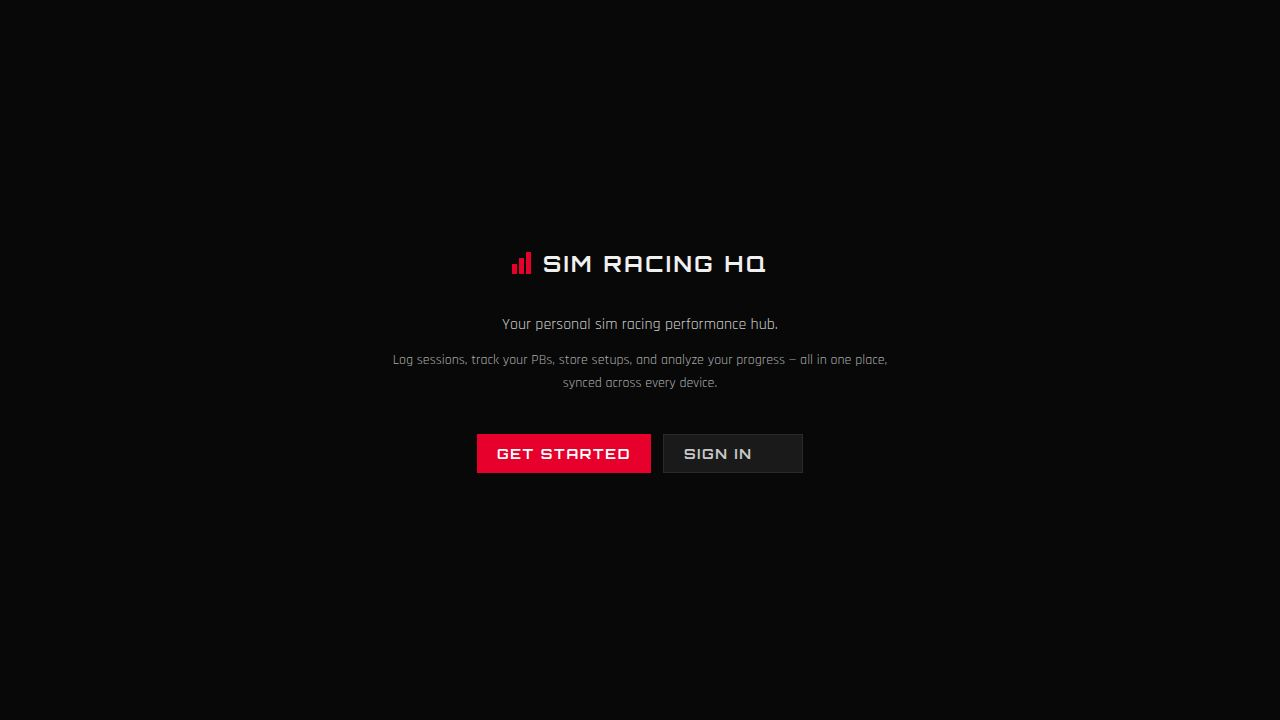
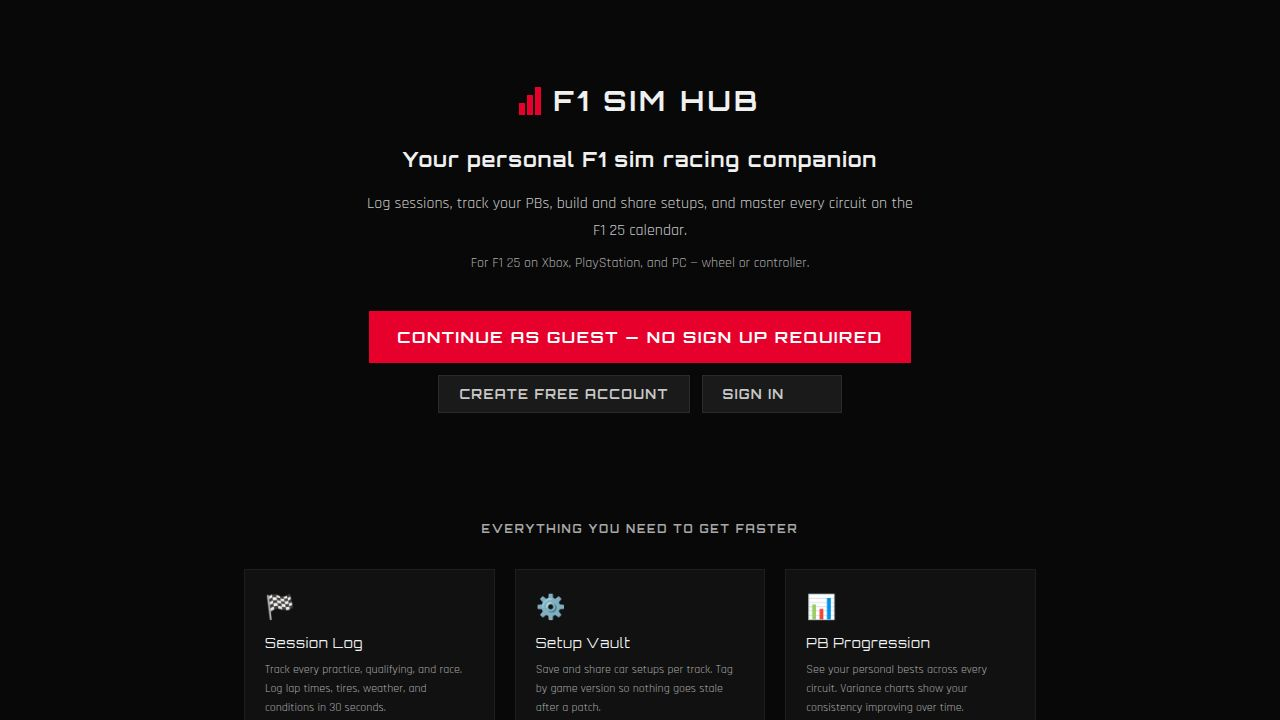
feat: Show save confirmations across Setups, Tracks, and Hardware pages
Task: Extend the existing Toast component to cover every save action in the
app — not just sessions. Setups, track corner notes, and hardware profiles
all saved silently before this change.

Changes:
- Toast.tsx: Added optional `variant` prop ('success' | 'error'). Error
  variant renders red styling with AlertCircle icon instead of teal/CheckCircle.
  Default remains 'success' for full backwards compatibility.

- Setups.tsx: Import Toast, add `toast` state. createSetup onSuccess now
  fires "Setup saved ✓" toast. shareSetup onSuccess fires "Shared to
  Community ✓" or "Removed from Community ✓" depending on prior isPublic
  state. shareSetup onError fires an error toast ("Failed to update sharing
  — please try again."). Existing inline modal error for createSetup
  failures retained.

- Tracks.tsx (TrackDetail): Import Toast, replace `savedFlash` state with
  `notesToast` state. upsertTrackNotes onSuccess fires "Notes saved ✓"
  toast. onError fires an error toast pointing user to the inline Retry
  button. Removed the inline "✓ Saved" span (redundant with Toast); kept
  the inline "Saving…" indicator and "Save failed — Retry" inline error
  for discoverability next to the table.

- HardwareVault.tsx: Import Toast, add `toast` state. createHardware
  onSuccess fires "Hardware saved ✓" toast. Existing inline modal error
  for create failures retained.

No deviations from the task spec. All four done-looks-like criteria met:
[…]

diff --git a/artifacts/sim-racing-hq/src/pages/Tracks.tsx b/artifacts/sim-racing-hq/src/pages/Tracks.tsx
@@ -1,6 +1,7 @@
 import { useState, useEffect, useCallback, useRef, useMemo } from 'react';
 import { ArrowLeft, Plus, X, ChevronDown, ChevronUp, Play, ThumbsUp, BookOpen } from 'lucide-react';
 import { EmptyState } from '../components/EmptyState';
+import { Toast } from '../components/Toast';
 import { F1_TRACKS, F1Track, CORNER_NAMES } from '../data/f1Tracks';
 import {
   useGetSessions,
@@ -369,15 +370,16 @@ function TrackDetail({
   const trackSessions = allSessions.filter(s => s.trackId === track.id);
 
   const { data: trackNotesData } = useGetTrackNotes(track.id);
-  const [savedFlash, setSavedFlash] = useState(false);
+  const [notesToast, setNotesToast] = useState<{ message: string; variant?: 'success' | 'error' } | null>(null);
   const { mutate: upsertTrackNotes, isPending: isSaving, isError: hasSaveError, reset: resetSave } = useUpsertTrackNotes({
     mutation: {
       onSuccess: () => {
         qc.invalidateQueries({ queryKey: getGetTrackNotesQueryKey(track.id) });
-        setSavedFlash(true);
-        setTimeout(() => setSavedFlash(false), 1800);
+        setNotesToast({ message: 'Notes saved ✓' });
       },
-      onError: () => { setSavedFlash(false); },
+      onError: () => {
+        setNotesToast({ message: 'Failed to save notes — tap Retry below.', variant: 'error' });
+      },
     },
   });
 
@@ -460,6 +462,13 @@ function TrackDetail({
 
   return (
     <div className="page">
+      {notesToast && (
+        <Toast
+          message={notesToast.message}
+          variant={notesToast.variant}
+          onDone={() => setNotesToast(null)}
+        />
+      )}
       <button className="back-btn" onClick={onBack}>
         <ArrowLeft size={12} /> Back to Tracks
       </button>
@@ -526,9 +535,6 @@ function TrackDetail({
             <div className="section-title" style={{ marginBottom: 0 }}>Corner Breakdown</div>
             {isSaving && (
               <span style={{ fontFamily: 'var(--font-body)', fontSize: 11, color: 'var(--gray-mid)' }}>Saving…</span>
-            )}
-            {!isSaving && savedFlash && !hasSaveError && (
-              <span style={{ fontFamily: 'var(--font-body)', fontSize: 11, color: 'var(--teal)' }}>✓ Saved</span>
             )}
             {!isSaving && hasSaveError && (
               <span style={{ fontFamily: 'var(--font-body)', fontSize: 11, color: 'var(--red)', display: 'flex', alignItems: 'center', gap: 6 }}>

diff --git a/artifacts/sim-racing-hq/src/pages/Setups.tsx b/artifacts/sim-racing-hq/src/pages/Setups.tsx
@@ -1,6 +1,7 @@
 import { useState, useMemo } from 'react';
 import { Plus, Eye, Trash2, Share2, Lock, Wrench } from 'lucide-react';
 import { EmptyState } from '../components/EmptyState';
+import { Toast } from '../components/Toast';
 import { useGetSetups, useCreateSetup, useDeleteSetup, useShareSetup, getGetSetupsQueryKey } from '@workspace/api-client-react';
 import { useQueryClient } from '@tanstack/react-query';
 import type { SetupRecord } from '@workspace/api-client-react';
@@ -167,6 +168,7 @@ export default function Setups() {
   const [selected, setSelected] = useState<string[]>([]);
   const [viewSetup, setViewSetup] = useState<SetupRecord | null>(null);
   const [comparing, setComparing] = useState(false);
+  const [toast, setToast] = useState<{ message: string; variant?: 'success' | 'error' } | null>(null);
 
   const { mutate: createSetup, isPending: saving } = useCreateSetup({
     mutation: {
@@ -176,6 +178,7 @@ export default function Setups() {
         setForm(defaultForm());
         setFormErrors({});
         setSaveError('');
+        setToast({ message: 'Setup saved ✓' });
       },
       onError: (err: unknown) => {
         const msg = err instanceof Error ? err.message : 'Failed to save setup. Please try again.';
@@ -193,8 +196,14 @@ export default function Setups() {
 
   const { mutate: shareSetup } = useShareSetup({
     mutation: {
-      onSuccess: () => {
+      onSuccess: (_data, variables) => {
         qc.invalidateQueries({ queryKey: getGetSetupsQueryKey() });
+        const setup = setups.find(s => s.id === variables.id);
+        const wasPublic = setup?.isPublic;
+        setToast({ message: wasPublic ? 'Removed from Community ✓' : 'Shared to Community ✓' });
+      },
+      onError: () => {
+        setToast({ message: 'Failed to update sharing — please try again.', variant: 'error' });
       },
     },
   });
@@ -266,6 +275,13 @@ export default function Setups() {
 
   return (
     <div className="page">
+      {toast && (
+        <Toast
+          message={toast.message}
+          variant={toast.variant}
+          onDone={() => setToast(null)}
+        />
+      )}
       <div className="page-header">
         <h1 className="page-title">Setup Vault</h1>
         <button className="btn btn-primary" onClick={() => setShowModal(true)}>

diff --git a/artifacts/sim-racing-hq/src/components/Toast.tsx b/artifacts/sim-racing-hq/src/components/Toast.tsx
@@ -1,14 +1,17 @@
 import { useEffect, useState } from 'react';
-import { CheckCircle } from 'lucide-react';
+import { CheckCircle, AlertCircle } from 'lucide-react';
 
 interface ToastProps {
   message: string;
   onDone: () => void;
   duration?: number;
+  variant?: 'success' | 'error';
 }
 
-export function Toast({ message, onDone, duration = 3000 }: ToastProps) {
+export function Toast({ message, onDone, duration = 3000, variant = 'success' }: ToastProps) {
   const [fading, setFading] = useState(false);
+
+  const isError = variant === 'error';
 
   useEffect(() => {
     const fadeTimer = setTimeout(() => setFading(true), duration);
@@ -23,8 +26,8 @@ export function Toast({ message, onDone, duration = 3000 }: ToastProps) {
         bottom: 28,
         right: 28,
         zIndex: 9999,
-        background: 'rgba(0,210,190,0.11)',
-        border: '1px solid rgba(0,210,190,0.42)',
+        background: isError ? 'rgba(232,0,45,0.11)' : 'rgba(0,210,190,0.11)',
+        border: `1px solid ${isError ? 'rgba(232,0,45,0.42)' : 'rgba(0,210,190,0.42)'}`,
         borderRadius: 4,
         padding: '11px 18px',
         display: 'flex',
@@ -33,7 +36,7 @@ export function Toast({ message, onDone, duration = 3000 }: ToastProps) {
         fontFamily: 'var(--font-display)',
         fontSize: 13,
         letterSpacing: '0.07em',
-        color: 'var(--teal)',
+        color: isError ? 'var(--red)' : 'var(--teal)',
         boxShadow: '0 4px 24px rgba(0,0,0,0.55)',
         opacity: fading ? 0 : 1,
         transition: 'opacity 0.3s ease',
@@ -41,7 +44,7 @@ export function Toast({ message, onDone, duration = 3000 }: ToastProps) {
         userSelect: 'none',
       }}
     >
-      <CheckCircle size={15} />
+      {isError ? <AlertCircle size={15} /> : <CheckCircle size={15} />}
       {message}
     </div>
   );

diff --git a/artifacts/sim-racing-hq/src/pages/HardwareVault.tsx b/artifacts/sim-racing-hq/src/pages/HardwareVault.tsx
@@ -1,6 +1,7 @@
 import { useState, useMemo } from 'react';
 import { Plus, Cpu, Trash2, Eye } from 'lucide-react';
 import { EmptyState } from '../components/EmptyState';
+import { Toast } from '../components/Toast';
 import { useGetHardware, useCreateHardware, useDeleteHardware, getGetHardwareQueryKey } from '@workspace/api-client-react';
 import { useQueryClient } from '@tanstack/react-query';
 import type { HardwareRecord } from '@workspace/api-client-react';
@@ -123,6 +124,7 @@ export default function HardwareVault() {
   const [filterType, setFilterType] = useState('');
   const [filterTrack, setFilterTrack] = useState('');
   const [viewProfile, setViewProfile] = useState<HardwareRecord | null>(null);
+  const [toast, setToast] = useState<{ message: string; variant?: 'success' | 'error' } | null>(null);
 
   const { mutate: createHardware, isPending: saving } = useCreateHardware({
     mutation: {
@@ -132,6 +134,7 @@ export default function HardwareVault() {
         setForm(defaultForm());
         setFormErrors({});
         setSaveError('');
+        setToast({ message: 'Hardware saved ✓' });
       },
       onError: (err: unknown) => {
         const msg = err instanceof Error ? err.message : 'Failed to save profile. Please try again.';
@@ -184,6 +187,13 @@ export default function HardwareVault() {
 
   return (
     <div className="page">
+      {toast && (
+        <Toast
+          message={toast.message}
+          variant={toast.variant}
+          onDone={() => setToast(null)}
+        />
+      )}
       <div className="page-header">
         <h1 className="page-title">Hardware Vault</h1>
         <button className="btn btn-primary" onClick={() => setShowModal(true)}>